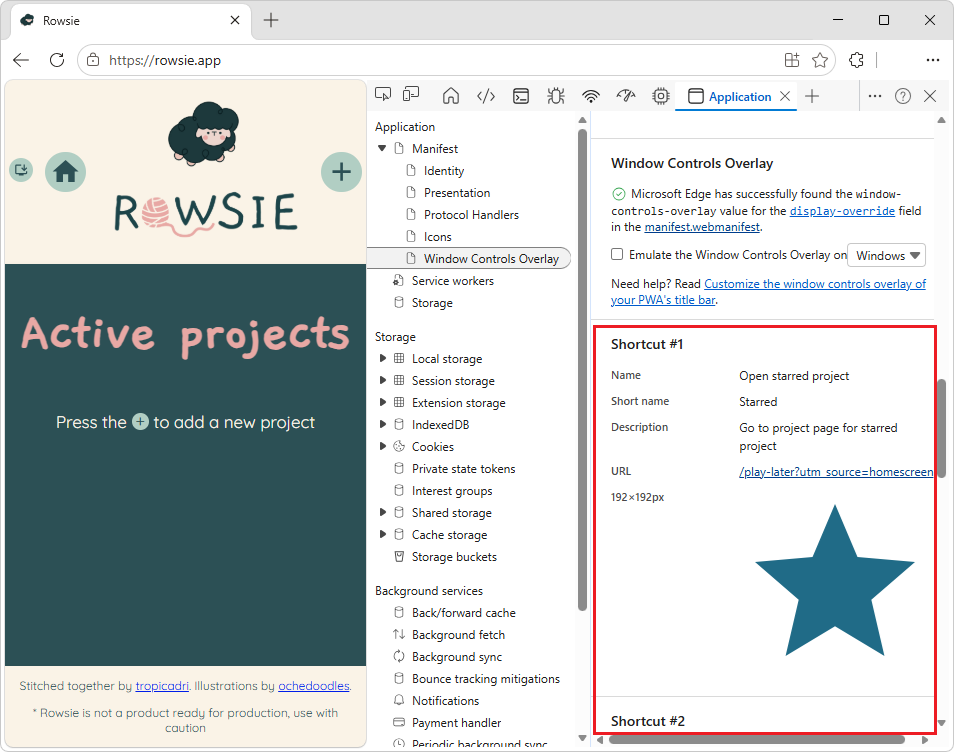
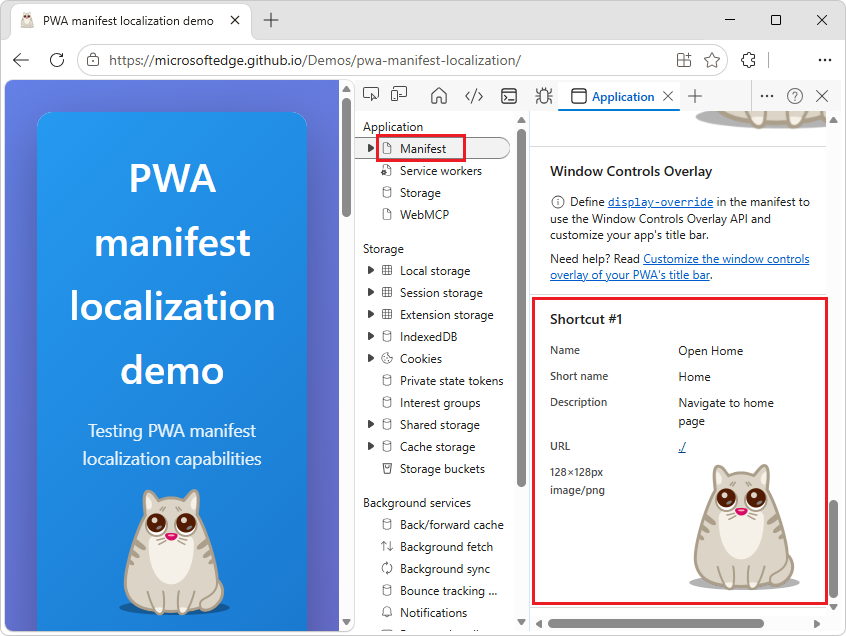
inc most PR Comments

diff --git a/microsoft-edge/devtools/progressive-web-apps/index.md b/microsoft-edge/devtools/progressive-web-apps/index.md
@@ -62,7 +62,7 @@ Progressive Web Apps (PWAs) are modern, high-quality applications built using we
 * PWAs show up in:
    * Activity switchers.
    * Device search engines such as Spotlight.
-   * In content sharing sheets (todo: clarify).
+   * Content sharing sheets.  For example, when you view a photo on your mobile device, you can share that photo with other apps, such as your messaging app.  A PWA can trigger share dialogs, and can also appear in share dialogs.  See [Share content with other apps](../../progressive-web-apps/how-to/share.md).
 
 The features that are discussed below are features of the **Application** tool are relevant for PWAs.  For help on the other features and panes in the **Application** tool, see:
 * [Other Application tool guides](#other-application-tool-guides), below.
@@ -70,7 +70,6 @@ The features that are discussed below are features of the **Application** tool a
 * [View and edit local storage](../storage/localstorage.md)
 
 See also:
-* [Progressive Web Apps](https://web.dev/progressive-web-apps) at web.dev.
 * [Overview of Progressive Web Apps (PWAs)](../../progressive-web-apps/index.md)
 
 
@@ -99,23 +98,16 @@ todo: create an added png showing these tree items of interest
 ## Web app manifest
 <!-- https://developer.chrome.com/docs/devtools/progressive-web-apps/#manifest -->
 
-If you want your users to be able to add your app to the following, you need a web app manifest:
-* The **Applications** folder, on Mac OS X.
-* The **Start** menu, on Windows.
-* The home screen, on Android and iOS.
+To let users install your app, you need a web app manifest.
 
 The web app manifest defines:
-* How the app appears on the home screen of a mobile device.
-* Where to direct the user when launching the app from the home screen.
+* The app icon and name, when installed on the device.
+* Where to direct the user when launching the app from the device.
 * What the app looks like when launched.
-
-Related guides:
-* [Improve user experiences with a Web App Manifest] /web/fundamentals/web-app-manifest  (todo: link to section when available)
-* [Using App Install Banners] /web/fundamentals/app-install-banners (todo: link to section when available)
 
 To inspect a manifest:
 
-1. Go to the webpage that uses the manifest, such as [PWAmp](https://microsoftedge.github.io/Demos/pwamp/), in a new window or tab.
+1. Go to a webpage that uses a web app manifest, such as [PWAmp](https://microsoftedge.github.io/Demos/pwamp/), in a new window or tab.
 
 1. Right-click the webpage, and then select **Inspect**.
 
@@ -137,18 +129,15 @@ To inspect a manifest:
    * **Protocol Handlers**
    * **Icons** - displays every icon that's been specified in the manifest.
    * **Window Controls Overlay**
-   * **Screenshot #1**
-   * **Screenshot #2**
-   * **Screenshot #3**
+   * Optionally, screenshot sections, such as **Screenshot #1** and **Screenshot #2**.
    
 1. Click the link below the **App Manifest** label, such as `manifest.json`.
 
    The manifest file opens, such as [/pwamp/manifest.json](https://microsoftedge.github.io/Demos/pwamp/manifest.json).
 
-To simulate an "Add to home screen" event, click the **Add to home screen** button (todo: where?).  See [Simulate an "Add to home screen" event](#simulate-an-add-to-home-screen-event), below.
-
 See also:
-* [Add a web app manifest](https://web.dev/add-manifest/) at web.dev.
+* [Use Progressive Web Apps (PWAs) in Microsoft Edge](../../progressive-web-apps/ux.md)
+* [The web app manifest (`manifest.json`)](../../progressive-web-apps/how-to/index.md#the-web-app-manifest-manifestjson) in _Get started developing a PWA_.
 
 
 <!-- ------------------------------ -->
@@ -168,76 +157,21 @@ See also:
 
 
 <!-- ------------------------------ -->
-#### Trigger installation
+<!-- #### Trigger installation -->
 <!-- https://developer.chrome.com/docs/devtools/progressive-web-apps/#trigger-installation -->
-
-Microsoft Edge makes it possible for you to enable and promote the installation of your PWA directly within its user interface.
-
-See also:
-* [How to provide your own in-app installation experience](https://web.dev/customize-install/) at web.dev.
-
-To trigger the installation flow of your PWA:
-
-1. Open the PWA's landing page in Microsoft Edge.  For example, open the [PWAmp](https://microsoftedge.github.io/Demos/pwamp/) demo in a new window or tab.
-
-1. On the right side of the Address bar at the top, click the **App available.  Install PWAmp music player** button.
-
-   The **Install PWAmp music player app** dialog opens: 
-
-   ![The "App available, Install" button](./index-images/app-available-install-button.png)
-
-1. Click the **Install** button.
+<!-- omitted section b/c not related to debugging a PWA in DevTools.  explains how to install a PWA in Edge (covered in end-user doc'n) -->
 
 
 <!-- ---------- -->
-###### Monitor the Console tool in the Quick view panel
+<!-- ###### Monitor the Console tool in the Quick view panel -->
 <!-- heading not upstream; content is upstream -->
-
-It's recommended that you keep the DevTools **Console** tool open in the **Quick view** panel when you trigger installation of your app; that is, while simulating an "Add to home screen event.  The **Console** tells you if your manifest has any issues, and logs other information about the installation lifecycle; that is, about the "Add to home screen" lifecycle.
-
-The **Install app** feature (todo: The "Add to home screen" feature?) cannot simulate the workflow for mobile devices.  The desktop Microsoft Edge browser displays the installation button in the Address bar, even though (todo: even when?) DevTools is in Device Mode (todo: true? is DevTools in Device Mode? is this describing a png?) (todo: local link).  However, if you can successfully add your app to your desktop, then the app will work for mobile, too.
-
-todo: global: maybe the old ui was **Add to home screen** and the new ui is **Install app**.
-
-The **Add to home screen** feature cannot simulate the workflow for mobile devices.  Notice how the "add to shelf" prompt was triggered in the screenshot above (todo: what screenshot?), even though DevTools (in the screenshot) is in Device Mode (Device Emulation).  However, if you can successfully add your app to your desktop shelf, then it works for mobile, too.
-
-See also:
-* [Emulate mobile devices (Device Emulation)](../device-mode/index.md)
+<!-- omitted section b/c obsolete, was useful when Application tool had a "simulate add to home screen" feature.  the App available button in the address bar of Edge doesn't appear if the app isn't installable, so there is no case where a user would try to install the app but installation would fail with messages in the Console tool -->
 
 
 <!-- ---------- -->
-###### Test a mobile device
+<!-- ###### Test a mobile device -->
 <!-- heading not upstream; content is upstream -->
-
-To test out the actual mobile experience:
-
-1. Connect a mobile device to DevTools via remote debugging.  See [Remotely debug Android devices](../remote-debugging/index.md).
-
-1. To trigger the installation on the connected mobile device, open the three-dot menu (![The three-dot menu icon](./index-images/three-dot-menu.png)) (todo: where, in the app on the device?  in devtools on the device?  is there a tooltip showing name of three-dot menu, on some platform?), and then click **Install app**.
-
-
-<!-- ------------------------------ -->
-#### Simulate an "Add to home screen" event
-<!-- section not upstream; upstream article has 0 hits on "home screen" -->
-
-To simulate an "Add to home screen" event, you can click the **Add to home screen** button on the **App Manifest** pane at any time, regardless of how many times a site was visited.
-
-A web app can only be added to a home screen when the site is visited at least twice, with at least five minutes between visits.  While developing or debugging your "Add to home screen" workflow, that restriction is potentially inconvenient.  Thus, you can use the **Add to home screen** button anytime.
-
-You can test out this feature with the [Microsoft I/O 2016 progressive web app](https://events.alpahabet.com/io2016/), which supports "Add to home screen".  When you click the **Add to home screen** button, Microsoft Edge displays the "add this site to your shelf" banner, which is the desktop equivalent of the "add to home screen" banner for mobile devices.
-
-![Add to desktop shelf] todo: io.png
-
-To test the actual mobile experience:
-
-1. Connect an actual mobile device to DevTools via remote debugging.
-
-1. Click the **Add to home screen** button (in DevTools) to trigger the "add to home screen" prompt on the connected mobile device.
-
-See also:
-* [Remotely debug Android devices](../remote-debugging/index.md)
-* [Remotely debug Android WebViews](../remote-debugging/webviews.md)
-* [Remotely debug Windows devices](../remote-debugging/windows.md)
+<!-- omitted section -->
 
 
 <!-- ------------------------------ -->
@@ -246,56 +180,35 @@ See also:
 
 App shortcuts let you to provide quick access to a handful of common actions that users need frequently.
 
-To inspect the shortcuts that you defined in your [manifest file](https://web.dev/articles/app-shortcuts#define_app_shortcuts_in_the_web_app_manifest), scroll to the **Shortcut #N** sections of the **Manifest** page of the **Application** tool.  The **Shortcut #N** sections are below the **Windows Control Overlay** section of the **Manifest** page:
+To inspect the shortcuts that you defined in your manifest file, scroll to the **Shortcut #N** sections of the **Manifest** page in the **Application** tool.  The **Shortcut #N** sections are below the **Windows Control Overlay** section of the **Manifest** page:
 
-![Shortcut section in the Manifest tab](./index-images/shortcut-sections.png) todo: pwamp
+![Shortcut section in the Manifest tab](./index-images/shortcut-sections.png)
 
-The above screenshot is from the [Rowsie](https://rowsie.app) (todo: pwamp) demo page.  For more examples of shortcuts, inspect the demo page.
+The above screenshot is from the [PWA manifest localization demo](https://microsoftedge.github.io/Demos/pwa-manifest-localization/), which defines a shortcut in its manifest file.
 
 See also:
-* [App shortcuts](https://web.dev/articles/app-shortcuts) at web.dev.
+* [Define app shortcuts (long-press or right-click menus)](../../progressive-web-apps/how-to/shortcuts.md)
 
 
 <!-- ------------------------------ -->
-#### Inspect screenshots for a richer installation UI
+<!-- #### Inspect screenshots for a richer installation UI -->
 <!-- https://developer.chrome.com/docs/devtools/progressive-web-apps/#screenshot -->
-
-When you add a description and a set of screenshots to your manifest file, your app gets a richer installation dialog.
-
-To inspect the screenshots, scroll down to the **Screenshot #N** sections of the **Manifest** page of the **Application** tool:
-
-![The installation dialog, and screenshots in the Manifest page](./index-images/screenshots-populating-the-installation-dialog.png) (todo: pwamp)
-<!-- https://airhorner.com -->
-
-See also:
-* [screenshots](https://web.dev/add-manifest#screenshots) in _Add a web app manifest_ at web.dev.
+<!-- omitted chrome-only section -->
 
 
 <!-- ------------------------------ -->
 #### Test URL protocol handler registration
 <!-- https://developer.chrome.com/docs/devtools/progressive-web-apps/#test-protocol-handler -->
 
-todo: format, links, pngs - https://developer.chrome.com/docs/devtools/progressive-web-apps/#test-protocol-handler
+A PWA can handle links that use a specific protocol, for a more integrated experience.  To create a handler, see [URL protocol handler registration for PWAs](https://developer.chrome.com/docs/web-platform/best-practices/url-protocol-handler) (todo: local link or mdn)
 
-A PWA can handle links that use a specific protocol, for a more integrated experience.  To learn how to create a handler, see [URL protocol handler registration for PWAs](https://developer.chrome.com/docs/web-platform/best-practices/url-protocol-handler) (todo: local link or mdn)
+The PWAmp demo supports protocol handling, in [`manifest.json`, lines 100-105](https://github.com/MicrosoftEdge/Demos/blob/402867e2fc0cd625e6c2a2504664064d3cd36ea9/pwamp/manifest.json#L100-L105)
 
-_upstream:_
-
-To test your handler:
-
-1. Open DevTools on the landing page of your PWA.  For example, check out the [URL protocol handler](https://chrome.dev/devtools-protocol-handler/) demo at `chrome.dev`.
-
-1. From the demo page, install the PWA and reload the app after the installation.
-
-   The browser has now registered the PWA as a handler for the web+coffee protocol.
-
-_end of excerpt from upstream_
-
-To test a handler:
+To test protocol handling:
 
 1. Go to the [PWAmp](https://microsoftedge.github.io/Demos/pwamp/) demo in a new window or tab.
 
-   todo: does pwamp cover URL protocol handler registration?  which demo to use?  
+   **Install the PWA:**
 
 1. On the right side of the Address bar, click the **App available.  Install PWAmp music player** (![The "App available, Install" icon](./index-images/app-available-install-icon.png)) button.
 
@@ -311,35 +224,46 @@ To test a handler:
 
 1. Click the **Yes** button.
 
-1. Right-click in the app window, and then select **Inspect**.
+   **Test the protocol, in DevTools:**
+
+1. Right-click the app, and then select **Inspect**.
 
    DevTools opens in a dedicated window.
 
-   todo: resume here rewriting steps
+1. Select the ![Application tool](./index-images/application-icon.png) **Application** tool.
 
-1. Reload the app.
+1. In the tree on the left, expand **Manifest**, and then select **Protocol Handlers**.
 
-   The browser has now registered the PWA as a handler for the `web+coffee` protocol.
+   The **Manifest** page scrolls down to the **Protocol Handlers** section.
 
-1. In the **Application** > **Manifest** > **Protocol Handlers** section, enter the URL (todo: URL portion?  URL suffix?  URL path?) that you want the handler to test, and then click the **Test protocol** button:
+1. In the **Enter URL** text box, enter `remote-song:https://microsoftedge.github.io/Demos/pwamp/songs/OverTheStargates.mp3`:
 
-   ![Testing the handler] ./index-images/testing-handler.png todo
+   ![The Test protocol button](./index-images/test-protocol.png)
 
-   In this example, the handler can process `americano`, `chai`, and `latte-macchiato`.
+1. Click the **Test protocol** button.  todo: doesn't seem to work, opens new tab in Edge
 
-   Microsoft Edge asks you if it can open the app.
+   **Test the protocol (non-DevTools way):**
 
-1. Click the **Open Protocol Handler** button:
+1. Open the **Start** menu.
 
-   ![Open the app] open-protocol-handler.png todo
+1. Type "run", and then press **Enter**.
 
-   The **Allow app to open web+coffee links?** dialog opens:
+   The **Run** dialog opens.
 
-   ![Allow to handle links] allow-handle-links.png todo
+1. Enter `web+amp:remote-song:https://microsoftedge.github.io/Demos/pwamp/songs/OverTheStargates.mp3`, and then press **Enter**:
+
+   ![The Run dialog](./index-images/run-dialog-test-protocol-handling.png)
+
+   The **Microsoft Edge** dialog opens, asking "Allow app to open web+amp links?"
+
+   !["Microsoft Edge" dialog](./index-images/allow-app-to-open-links.png)
 
 1. Click the **Allow** button.
 
-   The handler processes the link.  An image of a coffee cup is displayed in the app.
+   PWAmp launches (as an installed app), proving that its protocol handling works.
+
+See also:
+* [Test Progressive Web App (PWA) protocol handling](./protocol-handlers.md)
 
 
 <!-- ====================================================================== -->
@@ -352,8 +276,9 @@ Service workers are a fundamental technology in the web platform.  A _service wo
 * Offline experiences.
 
 See also:
-* [Service worker overview](https://developer.chrome.com/docs/workbox/service-worker-overview) at `developer.chrome.com`.
-* [Push notifications overview](https://web.dev/push-notifications-overview/) at `web.dev`.
+* [Debug background services](../javascript/background-services.md) - debugging service workers from DevTools.
+* [The service worker to cache the app's files on the local device (`sw.js`)](../../progressive-web-apps/how-to/index.md#the-service-worker-to-cache-the-apps-files-on-the-local-device-swjs) in _Get started developing a PWA_.
+* [Re-engage users with push messages](../../progressive-web-apps/how-to/push.md)
 
 The main place in DevTools to inspect and debug service workers is the **Service workers** pane in the ![Application icon](./index-images/application-icon.png) **Application** tool.
 
@@ -373,7 +298,7 @@ To view service workers:
 
    ![The Service workers pane](./index-images/service-workers-pane.png)
 
-   todo: why does "Application > Service workers" for PWAmp demo list SWs for /pwa-timer/, /wami/, /pwa-to-do/, & /1DIV/, as well as /pwamp/?
+   todo: "Application > Service workers" for PWAmp demo list SWs for /pwa-timer/, /wami/, /pwa-to-do/, & /1DIV/, as well as /pwamp/ - get rid of them by uninstalling these other apps before png.  These SWs appear because they're all part of the same domain name, i.e. https://microsoftedge.github.io/  If we had custom domains for each of our demos (e.g. www.pwamp.com), this would not happen.
 
 * If a service worker is installed to the currently open page, then the service worker is listed in the **Service workers** pane.  For example, in the previous figure, there is a service worker installed for the scope of `https://weather-pwa-sample.firebaseapp.com`.  (todo: update for PWAmp instead of Airhorner)
 
@@ -508,21 +433,16 @@ The **Clear Storage** tab is useful when developing a progressive web app.  Use 
 
 
 <!-- ====================================================================== -->
-## Other Application tool guides
-<!-- Other Application panel guides  https://developer.chrome.com/docs/devtools/progressive-web-apps/#other -->
-
-For the other panes of the ![Application icon](./index-images/application-icon.png) **Application** tool, see:
-* [Inspect page resources](/iterate/manage-data/page-resources)
-* [Inspect and manage local storage and caches](/iterate/manage-data/local-storage)
-
-todo: link to the above sections when available
-
-
-<!-- ====================================================================== -->
 ## See also
-<!-- not in upstream -->
+<!-- Other Application panel guides  https://developer.chrome.com/docs/devtools/progressive-web-apps/#other -->
+<!-- todo: all links in article -->
 
-* [Inspect network activity](./index.md)
+* [Inspect page resources](/iterate/manage-data/page-resources) - todo: link to section when available
+* [Inspect and manage local storage and caches](/iterate/manage-data/local-storage) - todo: link to section when available
+* [Inspect network activity](../network/index.md)
+* [Remotely debug Android devices](../remote-debugging/index.md)
+* [Remotely debug Android WebViews](../remote-debugging/webviews.md)
+* [Remotely debug Windows devices](../remote-debugging/windows.md)
 
 
 <!-- ====================================================================== -->
